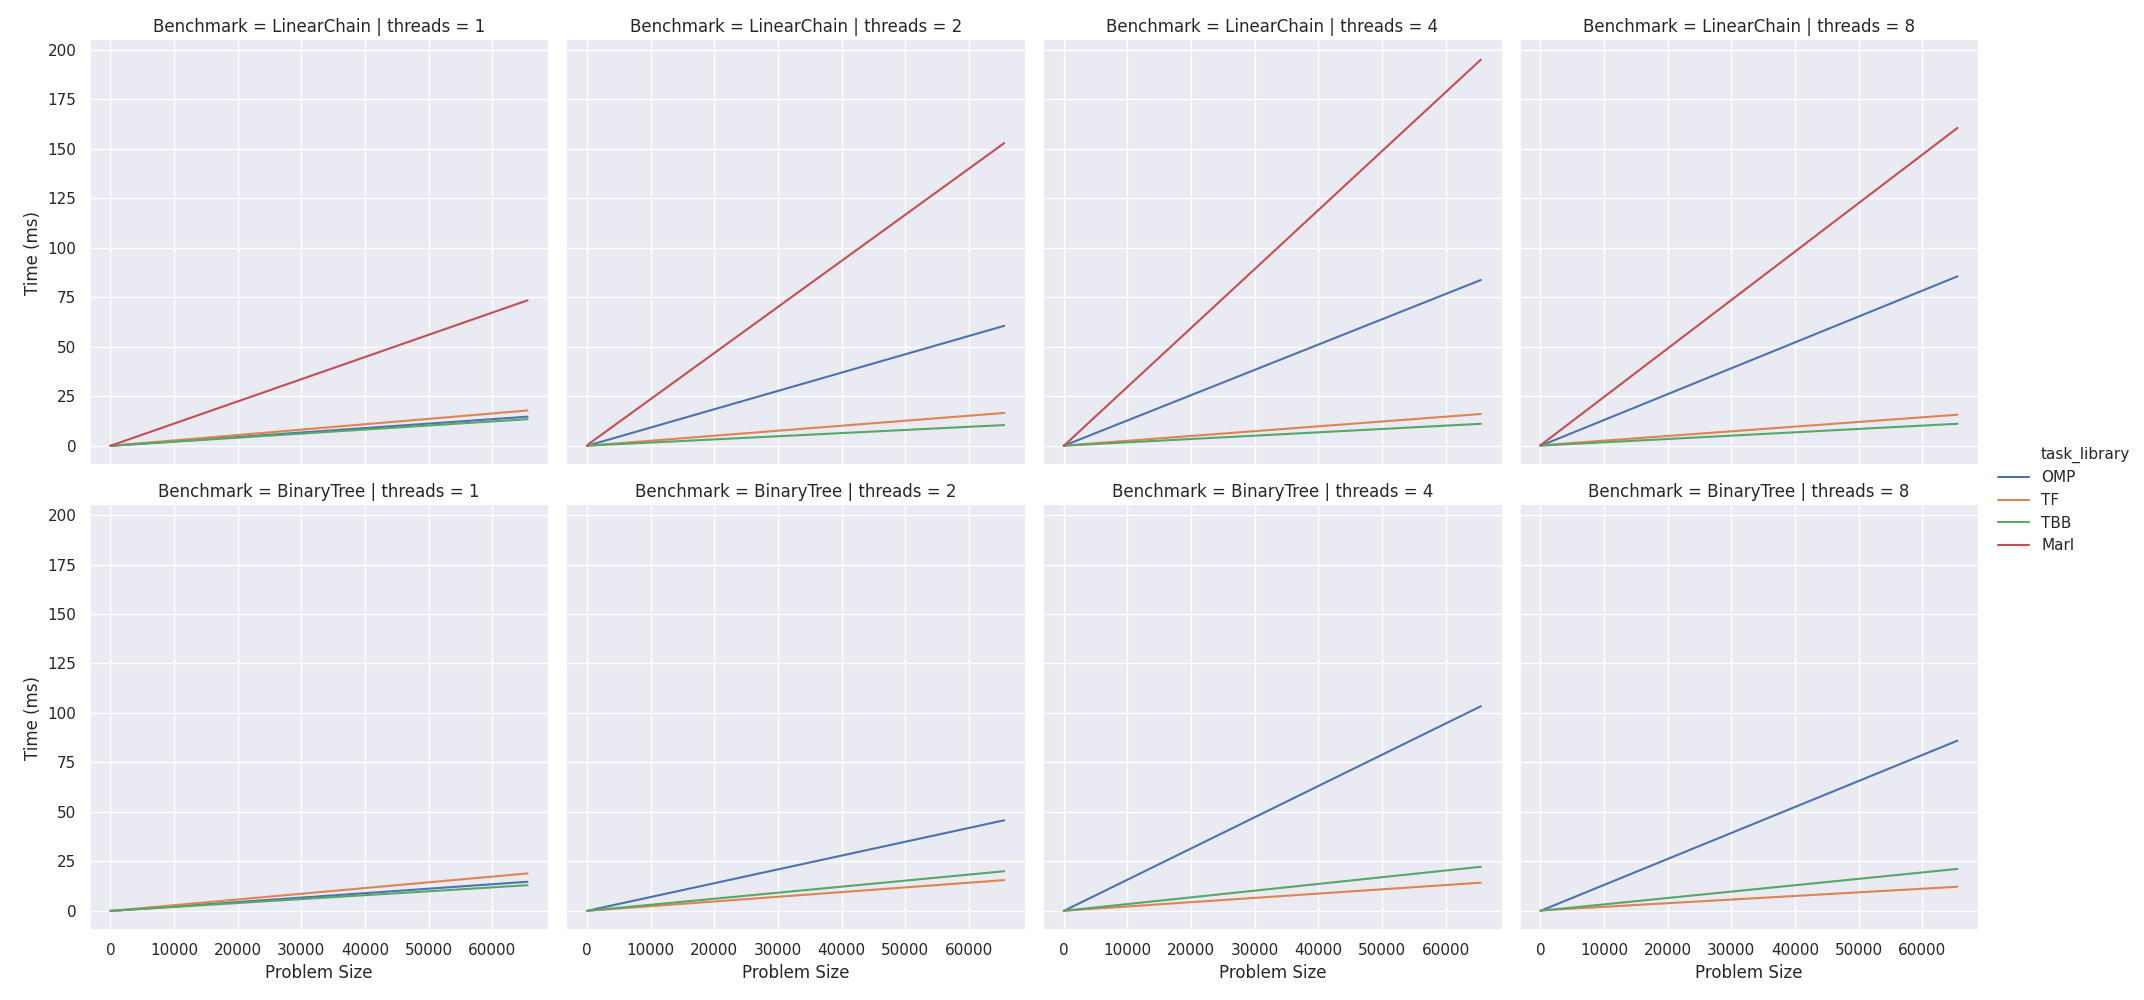
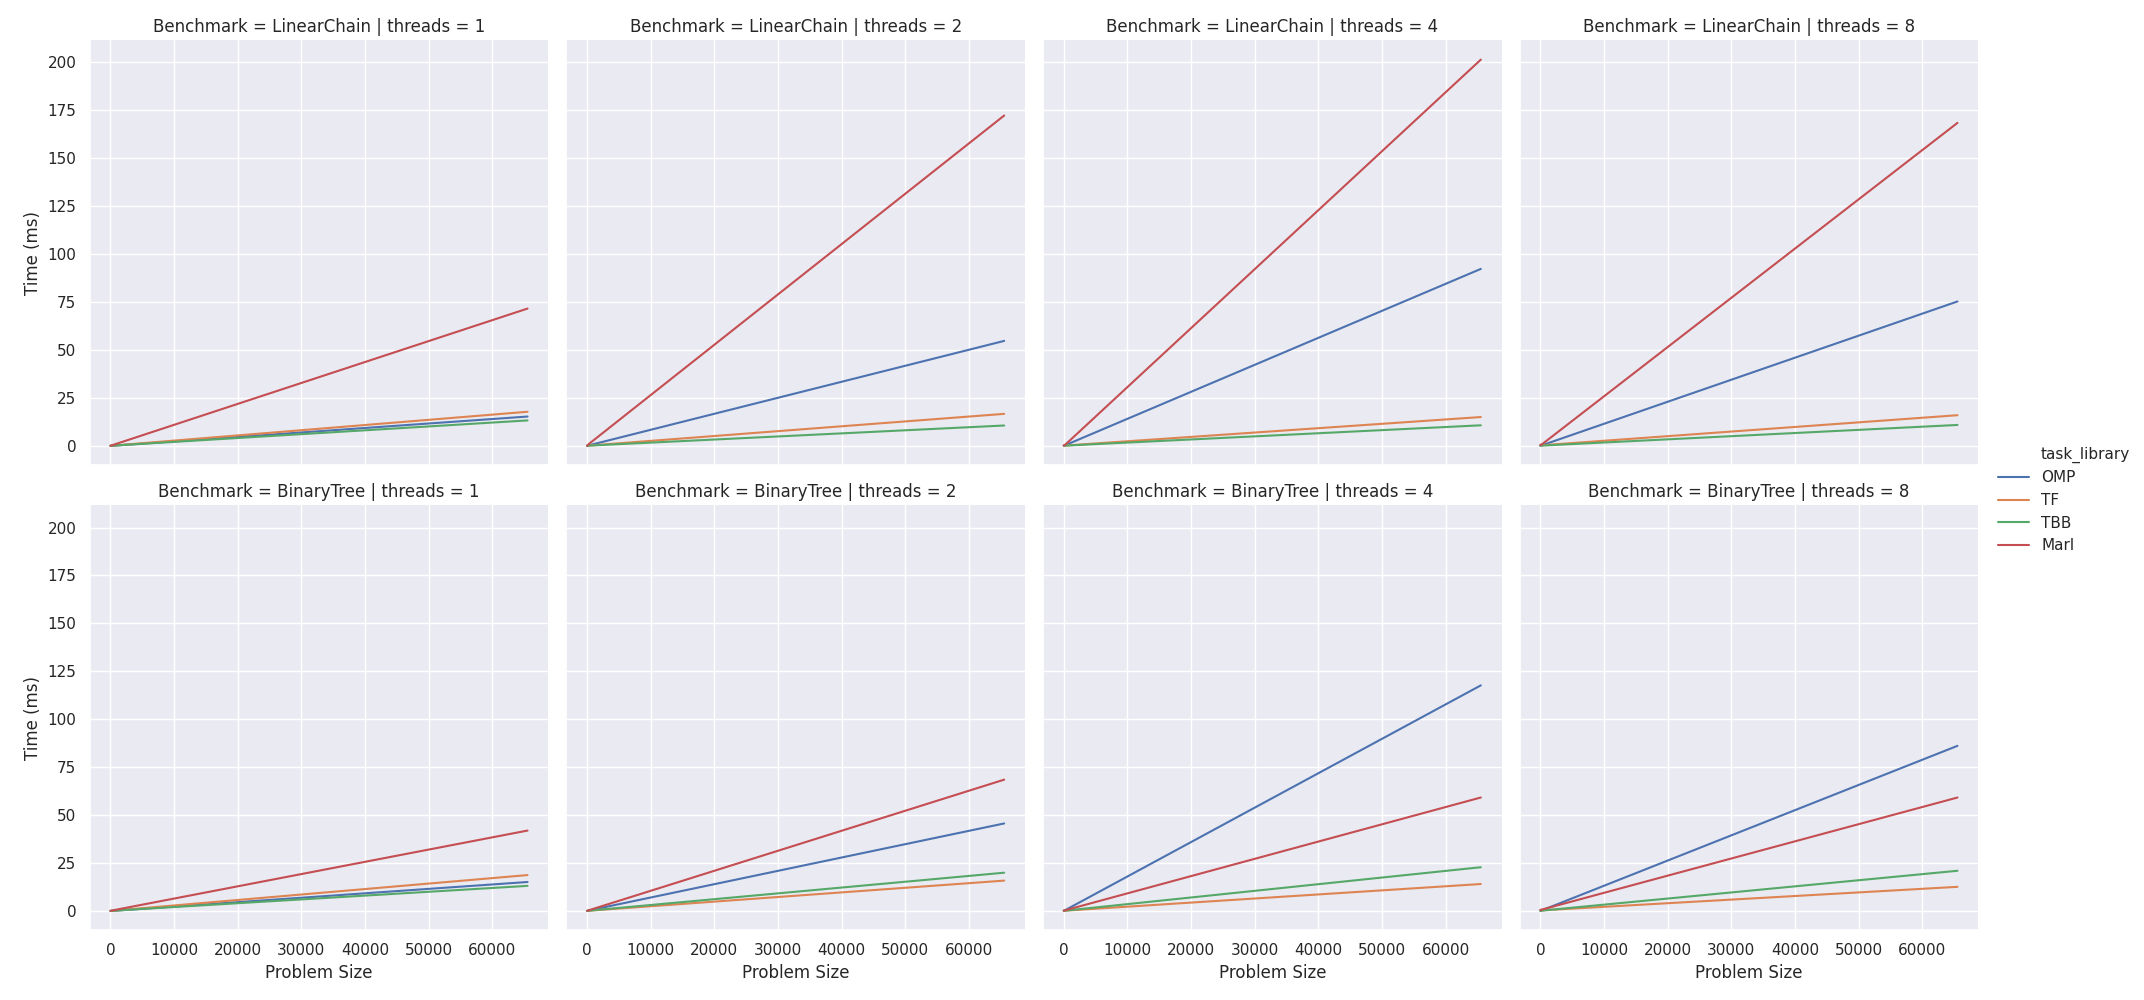
Updated Readme

diff --git a/src/Common.hpp b/src/Common.hpp
@@ -6,10 +6,128 @@
 #include <assert.h>
 #include <iostream>
 #include <atomic>
+#include <math.h>
 
 #define LC_MAX_PS 16
 #define BT_MAX_PS 16
 
 #define MAX_THREAD 8
+
+
+// The BELOW code is taken from the Marl Repository for fractal creation
+// Copyright 2019 The Marl Authors.
+//
+// Licensed under the Apache License, Version 2.0 (the "License");
+
+// A color formed from a red, green and blue component.
+template <typename T>
+struct Color {
+  T r, g, b;
+
+  inline Color<T>& operator+=(const Color<T>& rhs) {
+    r += rhs.r;
+    g += rhs.g;
+    b += rhs.b;
+    return *this;
+  }
+
+  inline Color<T>& operator/=(T rhs) {
+    r /= rhs;
+    g /= rhs;
+    b /= rhs;
+    return *this;
+  }
+};
+
+// colorize returns a 'rainbow-color' for the scalar v.
+inline Color<float> colorize(float v) {
+  constexpr float PI = 3.141592653589793f;
+  constexpr float PI_2_THIRDS = 2.0f * PI / 3.0f;
+  return Color<float>{
+      0.5f + 0.5f * cosf(v + 0 * PI_2_THIRDS),
+      0.5f + 0.5f * cosf(v + 1 * PI_2_THIRDS),
+      0.5f + 0.5f * cosf(v + 2 * PI_2_THIRDS),
+  };
+}
+
+// lerp returns the linear interpolation between min and max using the weight x.
+inline float lerp(float x, float min, float max) {
+  return min + x * (max - min);
+}
+
+// julia calculates the Julia-set fractal value for the given coordinate and
+// constant. See https://en.wikipedia.org/wiki/Julia_set for more information.
+inline Color<float> julia(float x, float y, float cx, float cy) {
+  for (int i = 0; i < 1000; i++) {
+    if (x * x + y * y > 4) {
+      return colorize(sqrtf(static_cast<float>(i)));
+    }
+
+    auto xtemp = x * x - y * y;
+    y = 2 * x * y + cy;
+    x = xtemp + cx;
+  }
+
+  return {};
+}
+
+// writeBMP writes the given image as a bitmap to the given file, returning
+// true on success and false on error.
+inline bool writeBMP(const Color<uint8_t>* texels,
+              int width,
+              int height,
+              const char* path) {
+  auto file = fopen(path, "wb");
+  if (!file) {
+    fprintf(stderr, "Could not open file '%s'\n", path);
+    return false;
+  }
+//   defer(fclose(file));
+
+  bool ok = true;
+  auto put4 = [&](uint32_t val) { ok = ok && fwrite(&val, 1, 4, file) == 4; };
+  auto put2 = [&](uint16_t val) { ok = ok && fwrite(&val, 1, 2, file) == 2; };
+  auto put1 = [&](uint8_t val) { ok = ok && fwrite(&val, 1, 1, file) == 1; };
+
+  const uint32_t padding = -(3 * width) & 3U;   // in bytes
+  const uint32_t stride = 3 * width + padding;  // in bytes
+  const uint32_t offset = 54;
+
+  // Bitmap file header
+  put1('B');  // header field
+  put1('M');
+  put4(offset + stride * height * 3);  // size in bytes
+  put4(0);                             // reserved
+  put4(offset);
+
+  // BITMAPINFOHEADER
+  put4(40);      // size of header in bytes
+  put4(width);   // width in pixels
+  put4(height);  // height in pixels
+  put2(1);       // number of color planes
+  put2(24);      // bits per pixel
+  put4(0);       // compression scheme (none)
+  put4(0);       // size
+  put4(72);      // horizontal resolution
+  put4(72);      // vertical resolution
+  put4(0);       // color pallete size
+  put4(0);       // 'important colors' count
+
+  for (int y = height - 1; y >= 0; y--) {
+    for (int x = 0; x < width; x++) {
+      auto& texel = texels[x + y * width];
+      put1(texel.b);
+      put1(texel.g);
+      put1(texel.r);
+    }
+    for (uint32_t i = 0; i < padding; i++) {
+      put1(0);
+    }
+  }
+
+  fclose(file);
+  return ok;
+}
+// End Of Marl Repository Code //
 
 #endif

diff --git a/README.md b/README.md
@@ -1,14 +1,17 @@
 # Task Library Benchmark
 
 A non-comprehensive benchmark of several task/fiber scheduling libraries. Includes OpenMP, cpp-task-flow, marl, and tbb. I made this because I was interested in task-based parallelism and wanted
-to see how different libraries compare. I also thought it might be useful to have an independent repository where these benchmarks are setup. This repository is not meant to the `final` word
-on anything related to these libraries.
+to see how different libraries compare. I also thought it might be useful to have an independent repository where these benchmarks are setup. This repository is not meant to the final word
+on anything related to these libraries. It is also in the early stages of a WIP.
+
+Note - Marl seems to have only dynamic task scheduling, so all benchmark implementations must be programmed that way, even if the task structure/graph is known beforehand. I believe this is why it performed so poorly in these
+benchmarks. I think `tbb` and `cpp-task-flow` can perform well because they declare the entire task graph and understand **explicit** dependencies between tasks.
 
 ## Note on benchmarks
 
 Most of these benchmarks have been taken from [cpp-taskflow](https://github.com/cpp-taskflow/cpp-taskflow) without any significant modification.
 The only difference is this repository uses [google benchmark](https://github.com/google/benchmark) to provide statistically significant results instead.
-Plots are then generated using python from the saved output of `benchmark`.
+Plots are then generated using python from the saved output of `benchmark` .
 
 ## Install
 
@@ -20,4 +23,10 @@ Plots are then generated using python from the saved output of `benchmark`.
 
 1. `./cmake-build/bin/run-bench --benchmark_out=./results/tlb.json --benchmark_repetitions=3 --benchmark_report_aggregates_only` 
 2. `python scripts/visualize_gbench.py` 
+
+## Results
+
+![Results](assets/results.png)
+
+You can also look at `results/tlb.json` 
 
